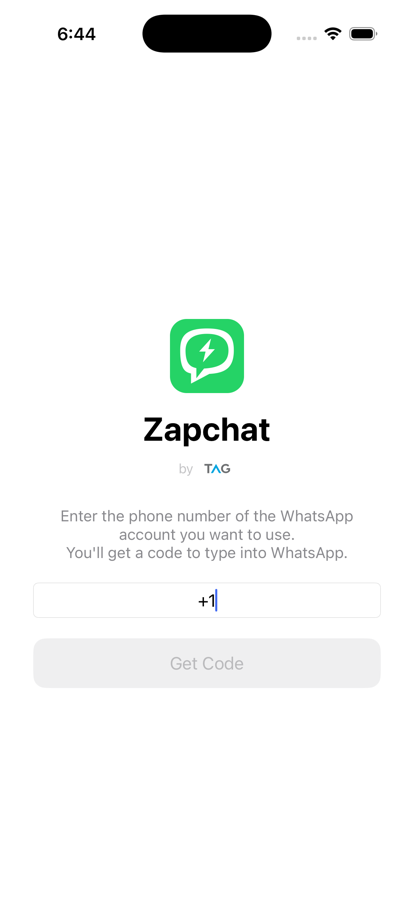
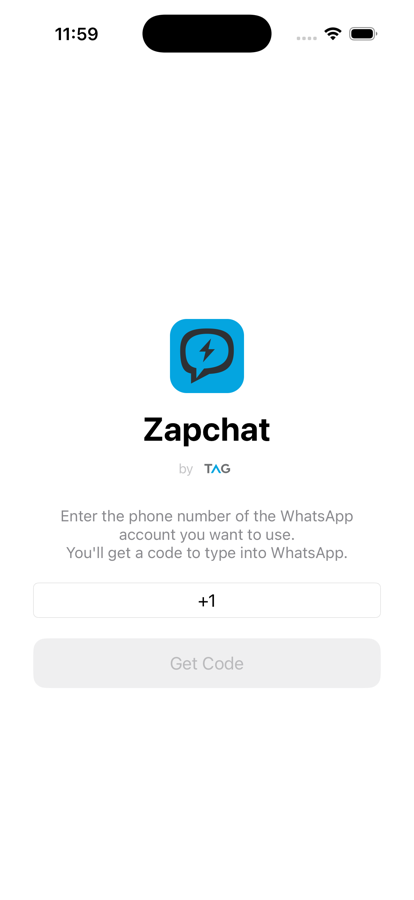
Dress the site in TAG's colours instead of WhatsApp's
The stylesheet said the palette was the app's own, taken from the icon, and it
was — but the icon's green was #25D366, which is WhatsApp's brand green
exactly, and the dark ground was #111B21, their dark theme. Apple rejected the
app under guideline 4.1(b) for that resemblance. The icon has been rebuilt in
TAG's colours and the site follows the same move, because a product site that
does not look like the product it sells is a second registry of the brand —
which is the reason the old comment gave for tying them together in the first
place.

It is now TAG's blue from tag.org over neutral greys taken from the mark. Every
value is measured against its own ground rather than picked by eye, and the
ratios are in the comments: the link darkens to #037FAC to clear 4.5:1 on
white, lightens to #04A7E2 for 6.4:1 on the dark ground, and the call to
action carries #00131C on the blue for 6.7:1.

The favicon, the apple-touch icon, the theme-color of all three pages and the
hero mark take the icon's colours directly. The linking screenshot could not
be recoloured — it is the one image with the app's mark inside it — so it was
taken again from a build carrying the new one.

Only colours and images. Not a word of the copy changed.

Changed region(s): [[0.4058, 0.3422, 0.6087, 0.4356], [0.1449, 0.0311, 0.2319, 0.0622], [0.5217, 0.6533, 0.5507, 0.6844]]

diff --git a/assets/site.css b/assets/site.css
@@ -1,19 +1,27 @@
-/* Zapchat. The palette is the app's own: the green is the exact fill from the
-   app icon (#25D366) and the dark ground is the icon's dark specialization
-   (#111B21). Nothing here is invented — a product site that does not look like
-   the product it sells is a second registry of the brand. */
+/* Zapchat. The palette is the app's own — a product site that does not look
+   like the product it sells is a second registry of the brand.
+
+   It used to be #25D366 on a #111B21 ground, taken from the app icon. Both of
+   those values are WhatsApp's: the first is their brand green exactly, the
+   second their dark theme. Apple rejected the app under guideline 4.1(b) for
+   it, the icon was rebuilt in TAG's own colours, and the site follows the same
+   move. It is now TAG's blue from tag.org (#04A5E0) over neutral greys taken
+   from the icon's mark (#2E3134).
+
+   Every value below is measured against its own ground rather than picked by
+   eye; the ratios are in the comments. */
 
 :root {
   color-scheme: light dark;
 
-  --green: #25d366;
-  --link: #0a7c5a;          /* the green, darkened until it passes on white */
+  --brand: #04a5e0;         /* TAG's blue, from tag.org */
+  --link: #037fac;          /* the blue, darkened until it passes on white — 4.5:1 */
   --ground: #ffffff;
-  --surface: #f4f7f5;       /* neutral, biased a few degrees toward the green */
-  --line: #e2e8e4;
-  --ink: #0e1512;
-  --muted: #5d6c65;
-  --shadow: 0 1px 2px rgba(14,21,18,.05), 0 8px 24px rgba(14,21,18,.06);
+  --surface: #f3f7fa;       /* neutral, biased a few degrees toward the blue */
+  --line: #e1e8ed;
+  --ink: #0e1416;           /* 18.6:1 on white */
+  --muted: #5d6a70;         /* 5.6:1 on white */
+  --shadow: 0 1px 2px rgba(14,20,22,.05), 0 8px 24px rgba(14,20,22,.06);
 }
 
 /* Only the tokens change. Every rule below reads them, so a colour is never
@@ -21,22 +29,22 @@
    one theme's text on the other theme's ground. */
 @media (prefers-color-scheme: dark) {
   :root:not([data-theme="light"]) {
-    --link: #4ee39a;
-    --ground: #111b21;
-    --surface: #1a262d;
-    --line: #26343c;
-    --ink: #e9edeb;
-    --muted: #93a5ad;
+    --link: #04a7e2;      /* 6.4:1 on the ground below */
+    --ground: #16191c;
+    --surface: #202427;
+    --line: #2e3134;      /* the icon's mark colour, used as the rule */
+    --ink: #e8eaec;       /* 14.6:1 */
+    --muted: #9aa4ab;     /* 7.0:1 */
     --shadow: 0 1px 2px rgba(0,0,0,.3), 0 8px 24px rgba(0,0,0,.35);
   }
 }
 :root[data-theme="dark"] {
-  --link: #4ee39a;
-  --ground: #111b21;
-  --surface: #1a262d;
-  --line: #26343c;
-  --ink: #e9edeb;
-  --muted: #93a5ad;
+  --link: #04a7e2;
+  --ground: #16191c;
+  --surface: #202427;
+  --line: #2e3134;
+  --ink: #e8eaec;
+  --muted: #9aa4ab;
   --shadow: 0 1px 2px rgba(0,0,0,.3), 0 8px 24px rgba(0,0,0,.35);
 }
 
@@ -62,7 +70,7 @@ p  { margin: 0 0 1rem; }
 .sub { color: var(--muted); font-size: 1.12rem; margin: 0 0 1.75rem; text-wrap: balance; }
 .lede { font-size: 1.06rem; }
 a { color: var(--link); text-underline-offset: .18em; }
-a:focus-visible, summary:focus-visible { outline: 2px solid var(--green); outline-offset: 3px; border-radius: 4px; }
+a:focus-visible, summary:focus-visible { outline: 2px solid var(--brand); outline-offset: 3px; border-radius: 4px; }
 strong { font-weight: 600; }
 
 /* Header */
@@ -94,7 +102,7 @@ strong { font-weight: 600; }
 .callout {
   margin: 1.25rem 0 0;
   padding: .9rem 1.1rem;
-  border-left: 3px solid var(--green);
+  border-left: 3px solid var(--brand);
   background: var(--surface);
   border-radius: 0 10px 10px 0;
   font-size: .97rem;
@@ -113,7 +121,7 @@ ol.steps li {
 ol.steps li::before {
   content: counter(step); position: absolute; left: 0; top: .05rem;
   width: 1.7rem; height: 1.7rem; border-radius: 50%;
-  background: var(--green); color: #062b16;
+  background: var(--brand); color: #00131c;   /* 6.7:1 on the blue */
   font-size: .85rem; font-weight: 700; display: grid; place-items: center;
 }
 ol.steps b { font-weight: 600; }

diff --git a/index.html b/index.html
@@ -4,7 +4,7 @@
 <meta name="viewport" content="width=device-width,initial-scale=1">
 <title>Zapchat by TAG</title>
 <meta name="description" content="Zapchat is a quieter WhatsApp client for iPhone and iPad. It links to the WhatsApp account you already have, the same way WhatsApp Web does.">
-<meta name="theme-color" content="#25d366">
+<meta name="theme-color" content="#04a5e0">
 <link rel="icon" href="/favicon.ico" sizes="32x32">
 <link rel="icon" href="/favicon.svg" type="image/svg+xml">
 <link rel="apple-touch-icon" href="/apple-touch-icon.png">

diff --git a/privacy.html b/privacy.html
@@ -5,7 +5,7 @@
 <link rel="icon" href="/favicon.ico" sizes="32x32">
 <link rel="icon" href="/favicon.svg" type="image/svg+xml">
 <link rel="apple-touch-icon" href="/apple-touch-icon.png">
-<meta name="theme-color" content="#25d366">
+<meta name="theme-color" content="#04a5e0">
 <link rel="stylesheet" href="/assets/site.css">
 </head><body>
 <div class="wrap">

diff --git a/support.html b/support.html
@@ -5,7 +5,7 @@
 <link rel="icon" href="/favicon.ico" sizes="32x32">
 <link rel="icon" href="/favicon.svg" type="image/svg+xml">
 <link rel="apple-touch-icon" href="/apple-touch-icon.png">
-<meta name="theme-color" content="#25d366">
+<meta name="theme-color" content="#04a5e0">
 <link rel="stylesheet" href="/assets/site.css">
 </head><body>
 <div class="wrap">
